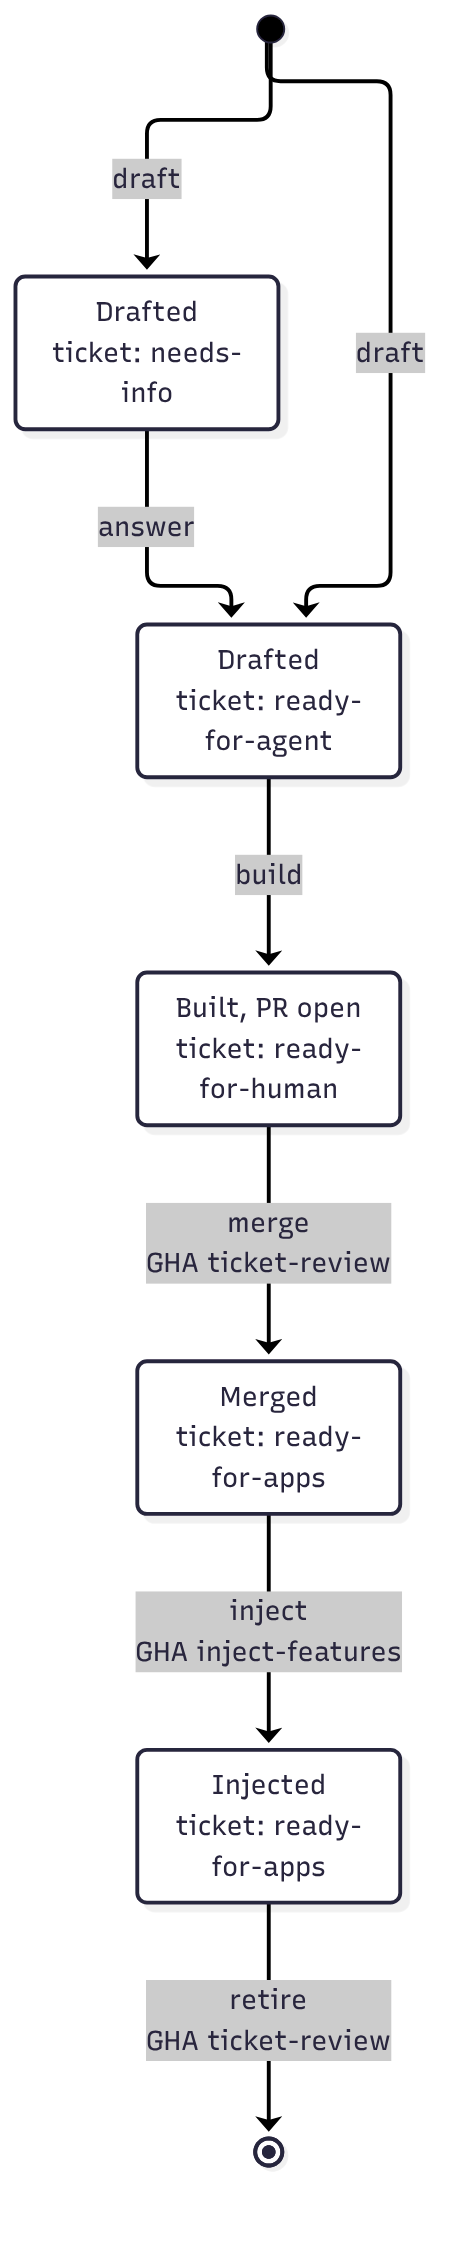
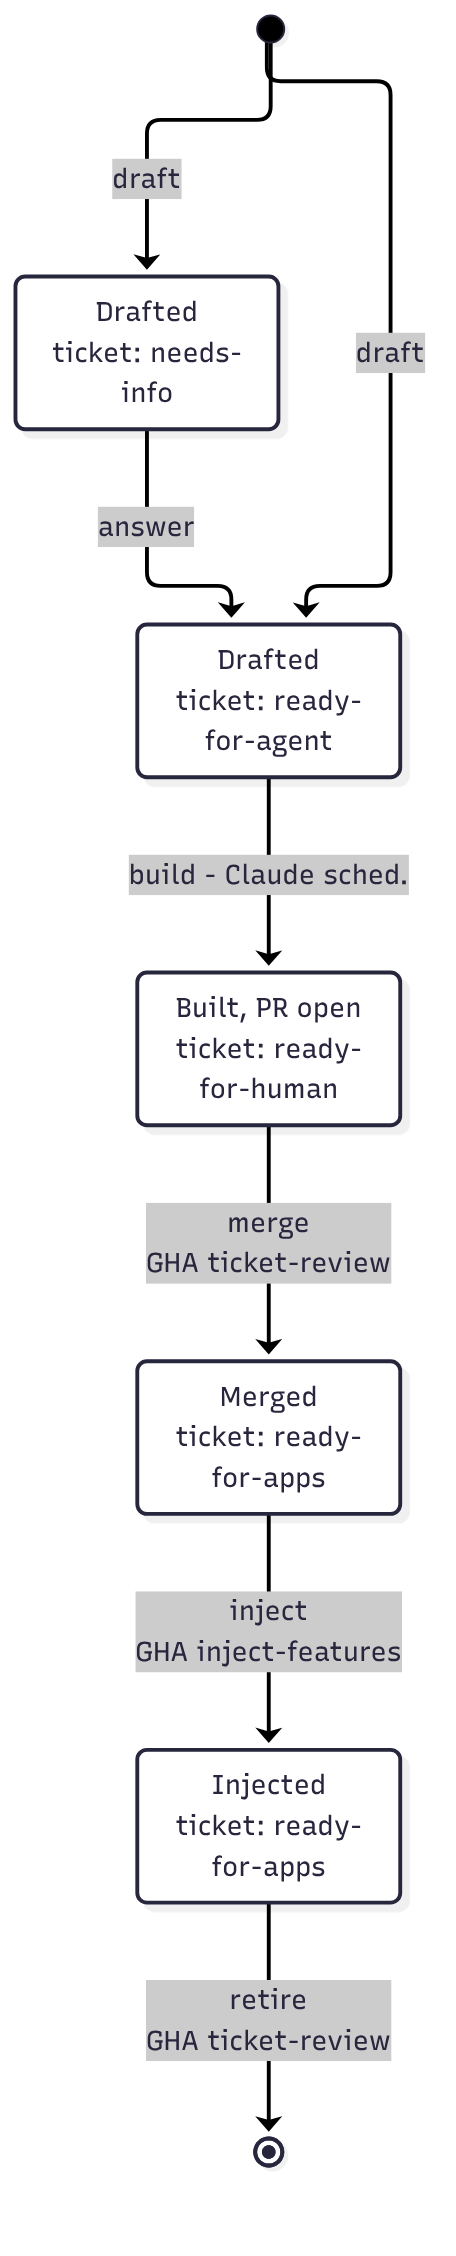
Label build transition as Claude scheduled
Claude-Session: https://claude.ai/code/session_01UMnZEn2NpHynn8vRPRkCR9

Changed region(s): [[0.2763, 0.3723, 0.9211, 0.4034]]

diff --git a/workflows/features.md b/workflows/features.md
@@ -20,7 +20,7 @@ stateDiagram-v2
     [*] --> NeedsInfo: draft
     [*] --> ReadyAgent: draft
     NeedsInfo --> ReadyAgent: answer
-    ReadyAgent --> ReadyHuman: build
+    ReadyAgent --> ReadyHuman: build - Claude sched.
     ReadyHuman --> ReadyApps: merge<br/>GHA ticket-review
     ReadyApps --> Injected: inject<br/>GHA inject-features
     Injected --> [*]: retire<br/>GHA ticket-review
